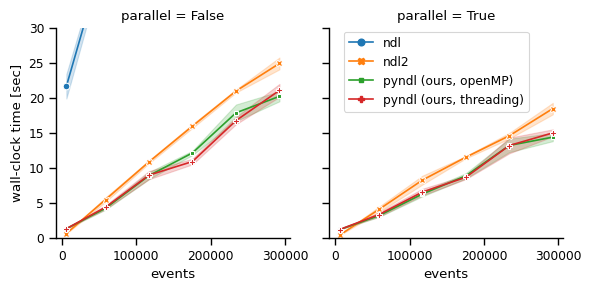
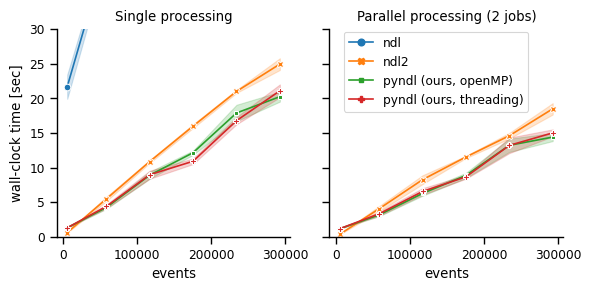
improves titles; improves wording

diff --git a/benchmark/plot_result.py b/benchmark/plot_result.py
@@ -34,6 +34,8 @@ fg.set_axis_labels('events', 'wall-clock time [sec]')
 fg.set(ylim=(0, 30))
 sns.move_legend(fg, "upper left", bbox_to_anchor=(.57, .90), frameon=True)
 fg.legend.set_title(None)
+fg.axes[0, 0].set_title('Single processing')
+fg.axes[0, 1].set_title('Parallel processing (2 jobs)')
 fg.savefig('benchmark_result.pdf')         
 fg.savefig('benchmark_result.png')         
 

diff --git a/doc/source/benchmark.rst b/doc/source/benchmark.rst
@@ -136,11 +136,10 @@ The shown wall-clock times were recorded on a laptop (*Intel(R) Core(TM) i7-8565
 For small event files the `pyndl` are less than one second slower than `ndl2` but still almost twenty times faster than `ndl`. With increasing number of events, `pyndl` becomes the fastest method
 in both single and parallel processing (2 jobs). 
 
-`pyndl` processes the event file into a faster accessible format, which results in the
-overhead for small event files. However, in contrast to both other implementations 
-it never reads the full event file into memory, allowing to process way larger event files than its competitors.
-
-
-
-
+`pyndl` processes the event file into a faster accessible format, which results
+in the overhead for event files. This is similarly done in `ndl2` where this
+overhead for small event files seems to be less time consuming. However, in
+contrast to the implementations in `ndl2` and `ndl`, the implementation in
+`pyndl` never reads the full event file into memory, which is faster and has a
+smaller memory footprint than its competitors.
 
